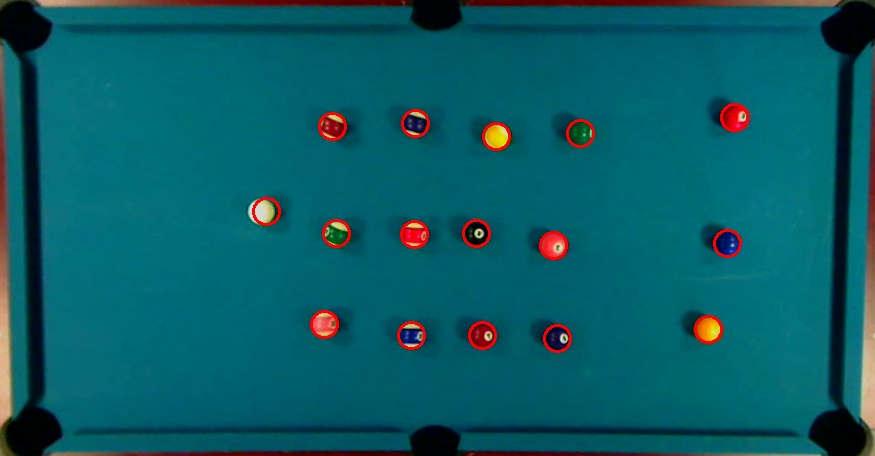
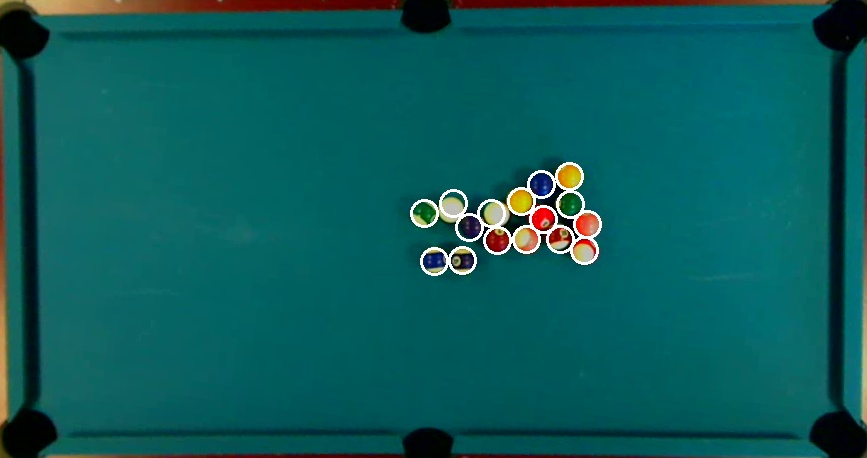
-More detect&id intro -Detected balls now with white circles

diff --git a/rapport/solution/balls-intro.tex b/rapport/solution/balls-intro.tex
@@ -22,4 +22,7 @@ The uniform color of the table cloth can be utilized to apply a threshold to the
 
 As will be mentioned later in this section, the idea of using this kind of segmentation to reduce the ROI is not a bad idea, but using the pixels in a BLOB can cause problems if all ball pixels are not included, or pixels that does not belong to the BLOB are included. This happens frequently when balls are laying too close to produce separate BLOBs, but instead ends up as one large BLOB containing pixels from several balls.
 
-\subsubsection{Ball probability estimation}
+\subsubsection{Chosen Solution: Ball probability estimation}
+A pool ball consists of one primary color and white. By counting the number of pixels inside a circular area which satisfies this, a ball probability can be estimated. The positions in the image having the highest probabilities are considered ball locations and can be passed on to the identifier.
+
+The identification process can be seperated into two steps: determining if the ball is solid or striped and determining the color of the ball. The ball is considered striped if the ratio between white and colored pixels are above a certain level.

diff --git a/rapport/solution/balls-locate.tex b/rapport/solution/balls-locate.tex
@@ -70,9 +70,9 @@ Figure \ref{fig:detect} shows results of ball detection in 2 different situation
 
 \begin{figure}[h]
   \centering
-  \subfloat[No clutter]{\label{fig:gull}\includegraphics[width=0.48\textwidth]{images/detect2.jpg}}
+  \subfloat[No clutter]{\label{fig:gull}\includegraphics[width=0.48\textwidth]{images/detect1.jpg}}
   \quad           
-  \subfloat[Clutter]{\label{fig:tiger}\includegraphics[width=0.48\textwidth]{images/detect1.jpg}}
+  \subfloat[Clutter]{\label{fig:tiger}\includegraphics[width=0.48\textwidth]{images/detect2.jpg}}
    \caption{Results of ball detection. Red circles indicate detected ball positions.}
   \label{fig:detect}
 \end{figure}
